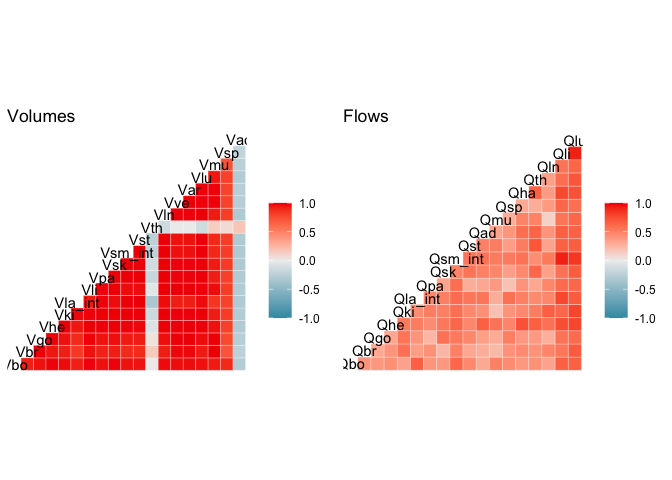
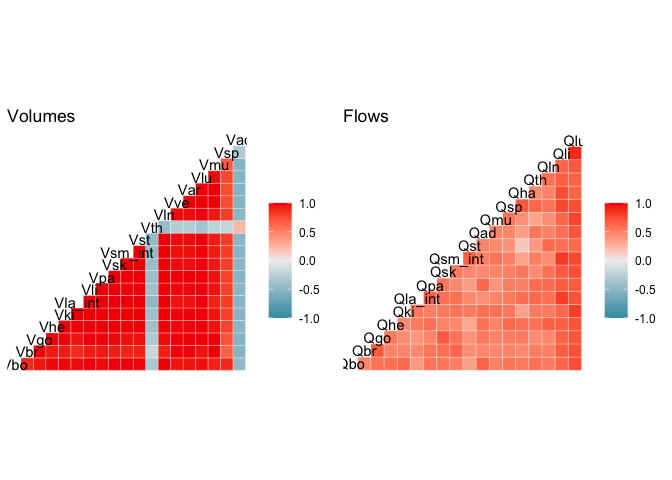
update test for calcKp_Vss

Changed region(s): [[0.5312, 0.3438, 0.875, 0.7812], [0.2188, 0.3125, 0.375, 0.7812], [0.125, 0.5938, 0.1562, 0.625]]

diff --git a/README.md b/README.md
@@ -61,8 +61,8 @@ indPars <- genInd(age=age, is.male=ismale, bw_targ=bw, ht_targ=ht, optimize = FA
 df_indPars <- bind_rows(indPars) %>% select(contains(c("Q","V")))
 df_indPars2 <- tibble(Parameter=names(df_indPars), Value=as.numeric(df_indPars))
 
-plot_vols <- ggplot(data=df_indPars2 %>% filter(grepl("V", Parameter)), aes(Parameter, Value)) + geom_col() + theme_bw() + labs(title = "Volumes")
-plot_flows <- ggplot(data=df_indPars2 %>% filter(grepl("Q", Parameter)), aes(Parameter, Value)) + geom_col() + theme_bw() + labs(title = "Flows")
+plot_vols <- ggplot(data=df_indPars2 %>% filter(grepl("V", Parameter)), aes(Parameter, Value)) + geom_col() + theme_bw() + labs(title = "Volumes", y="Volume (L)")
+plot_flows <- ggplot(data=df_indPars2 %>% filter(grepl("Q", Parameter)), aes(Parameter, Value)) + geom_col() + theme_bw() + labs(title = "Flows", y="Flow rate (L/h)")
 
 plot_grid(plot_vols, plot_flows, ncol=1)
 ```
@@ -169,26 +169,26 @@ summary(df_popPars[,1:11])
 ```
 
     .        ID             SEX            BW              HT             BMI       
-    .  Min.   : 1.00   Min.   :1.0   Min.   :55.10   Min.   :1.511   Min.   :19.39  
-    .  1st Qu.:10.75   1st Qu.:1.0   1st Qu.:68.77   1st Qu.:1.624   1st Qu.:23.13  
-    .  Median :20.50   Median :1.5   Median :76.32   Median :1.686   Median :26.37  
-    .  Mean   :20.50   Mean   :1.5   Mean   :75.04   Mean   :1.690   Mean   :26.41  
-    .  3rd Qu.:30.25   3rd Qu.:2.0   3rd Qu.:80.99   3rd Qu.:1.759   3rd Qu.:28.83  
-    .  Max.   :40.00   Max.   :2.0   Max.   :93.37   Max.   :1.866   Max.   :34.66  
+    .  Min.   : 1.00   Min.   :1.0   Min.   :58.24   Min.   :1.563   Min.   :19.55  
+    .  1st Qu.:10.75   1st Qu.:1.0   1st Qu.:70.96   1st Qu.:1.612   1st Qu.:24.02  
+    .  Median :20.50   Median :1.5   Median :80.14   Median :1.675   Median :27.93  
+    .  Mean   :20.50   Mean   :1.5   Mean   :79.53   Mean   :1.691   Mean   :27.94  
+    .  3rd Qu.:30.25   3rd Qu.:2.0   3rd Qu.:88.24   3rd Qu.:1.763   3rd Qu.:31.40  
+    .  Max.   :40.00   Max.   :2.0   Max.   :99.64   Max.   :1.878   Max.   :36.92  
     .     V_Heart           V_Lung          V_Muscle         V_Skin     
-    .  Min.   :0.2352   Min.   :0.6672   Min.   :16.54   Min.   :1.570  
-    .  1st Qu.:0.2571   1st Qu.:0.7434   1st Qu.:17.53   1st Qu.:1.852  
-    .  Median :0.3089   Median :0.9927   Median :22.50   Median :2.587  
-    .  Mean   :0.3150   Mean   :0.9664   Mean   :23.09   Mean   :2.613  
-    .  3rd Qu.:0.3745   3rd Qu.:1.1710   3rd Qu.:29.08   3rd Qu.:3.323  
-    .  Max.   :0.3973   Max.   :1.2295   Max.   :29.73   Max.   :3.737  
+    .  Min.   :0.2441   Min.   :0.7050   Min.   :16.59   Min.   :1.701  
+    .  1st Qu.:0.2720   1st Qu.:0.8170   1st Qu.:17.74   1st Qu.:2.093  
+    .  Median :0.3048   Median :0.9803   Median :22.36   Median :2.515  
+    .  Mean   :0.3177   Mean   :0.9824   Mean   :23.16   Mean   :2.655  
+    .  3rd Qu.:0.3701   3rd Qu.:1.1598   3rd Qu.:29.02   3rd Qu.:3.282  
+    .  Max.   :0.4039   Max.   :1.2452   Max.   :29.90   Max.   :3.819  
     .    V_Adipose          V_Bone      
-    .  Min.   : 7.931   Min.   : 6.463  
-    .  1st Qu.:18.355   1st Qu.: 7.625  
-    .  Median :26.958   Median : 9.028  
-    .  Mean   :27.244   Mean   : 9.124  
-    .  3rd Qu.:35.320   3rd Qu.:10.629  
-    .  Max.   :54.565   Max.   :12.136
+    .  Min.   : 3.848   Min.   : 7.079  
+    .  1st Qu.:19.559   1st Qu.: 7.698  
+    .  Median :32.371   Median : 8.732  
+    .  Mean   :31.483   Mean   : 9.153  
+    .  3rd Qu.:42.198   3rd Qu.:10.531  
+    .  Max.   :59.287   Max.   :12.288
 
 # Generate drug-specific parameters
 
@@ -209,7 +209,7 @@ different organs using one of five different calculation methods:
   - pksim: PK-Sim
     ([source](https://www.tandfonline.com/doi/abs/10.1517/17425255.1.1.159)).
 
-The function uses the unified tissue composition data reported
+The function uses the standardized tissue composition database reported
 [here](https://dmd.aspetjournals.org/content/48/10/903)
 
 ``` r
@@ -241,6 +241,11 @@ individual’s physiological parameters also need to be passed to the
 argument `Vt`. `calcKp` will grab the tissue volumes from this list to
 allow for the scaling of the Kp values based on the Vss calculation here
 <https://jcheminf.biomedcentral.com/articles/10.1186/s13321-015-0054-x>.
+This scaling also requires `Kpot`, which is the partition coefficient
+value for the “other” compartment that lumps all compartments that are
+not defined in the standardized tissue composition database. If `Kpot`
+is left as `NULL`, it will be calculated as the average of all non
+adipose tissues Kp values.
 
 ``` r
 # calculate partition coefficients
